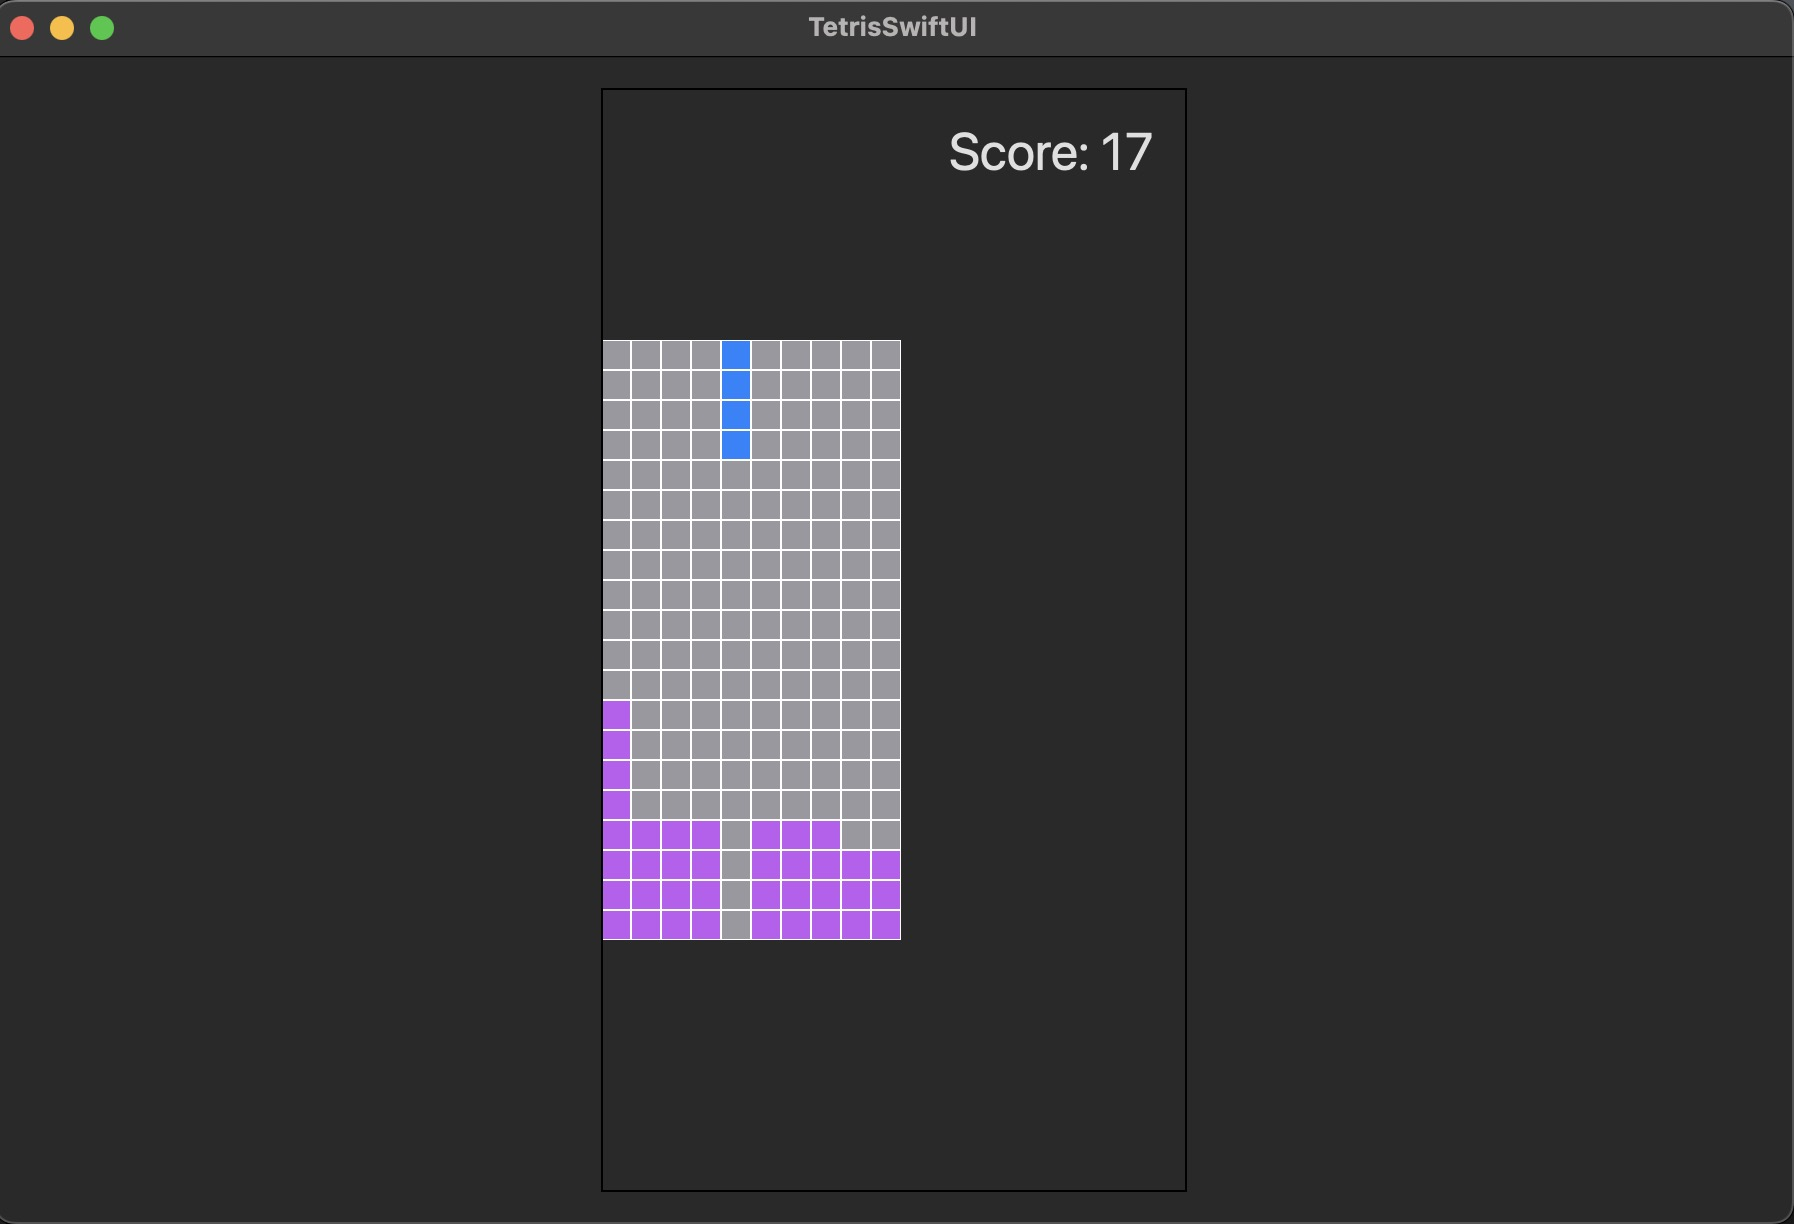
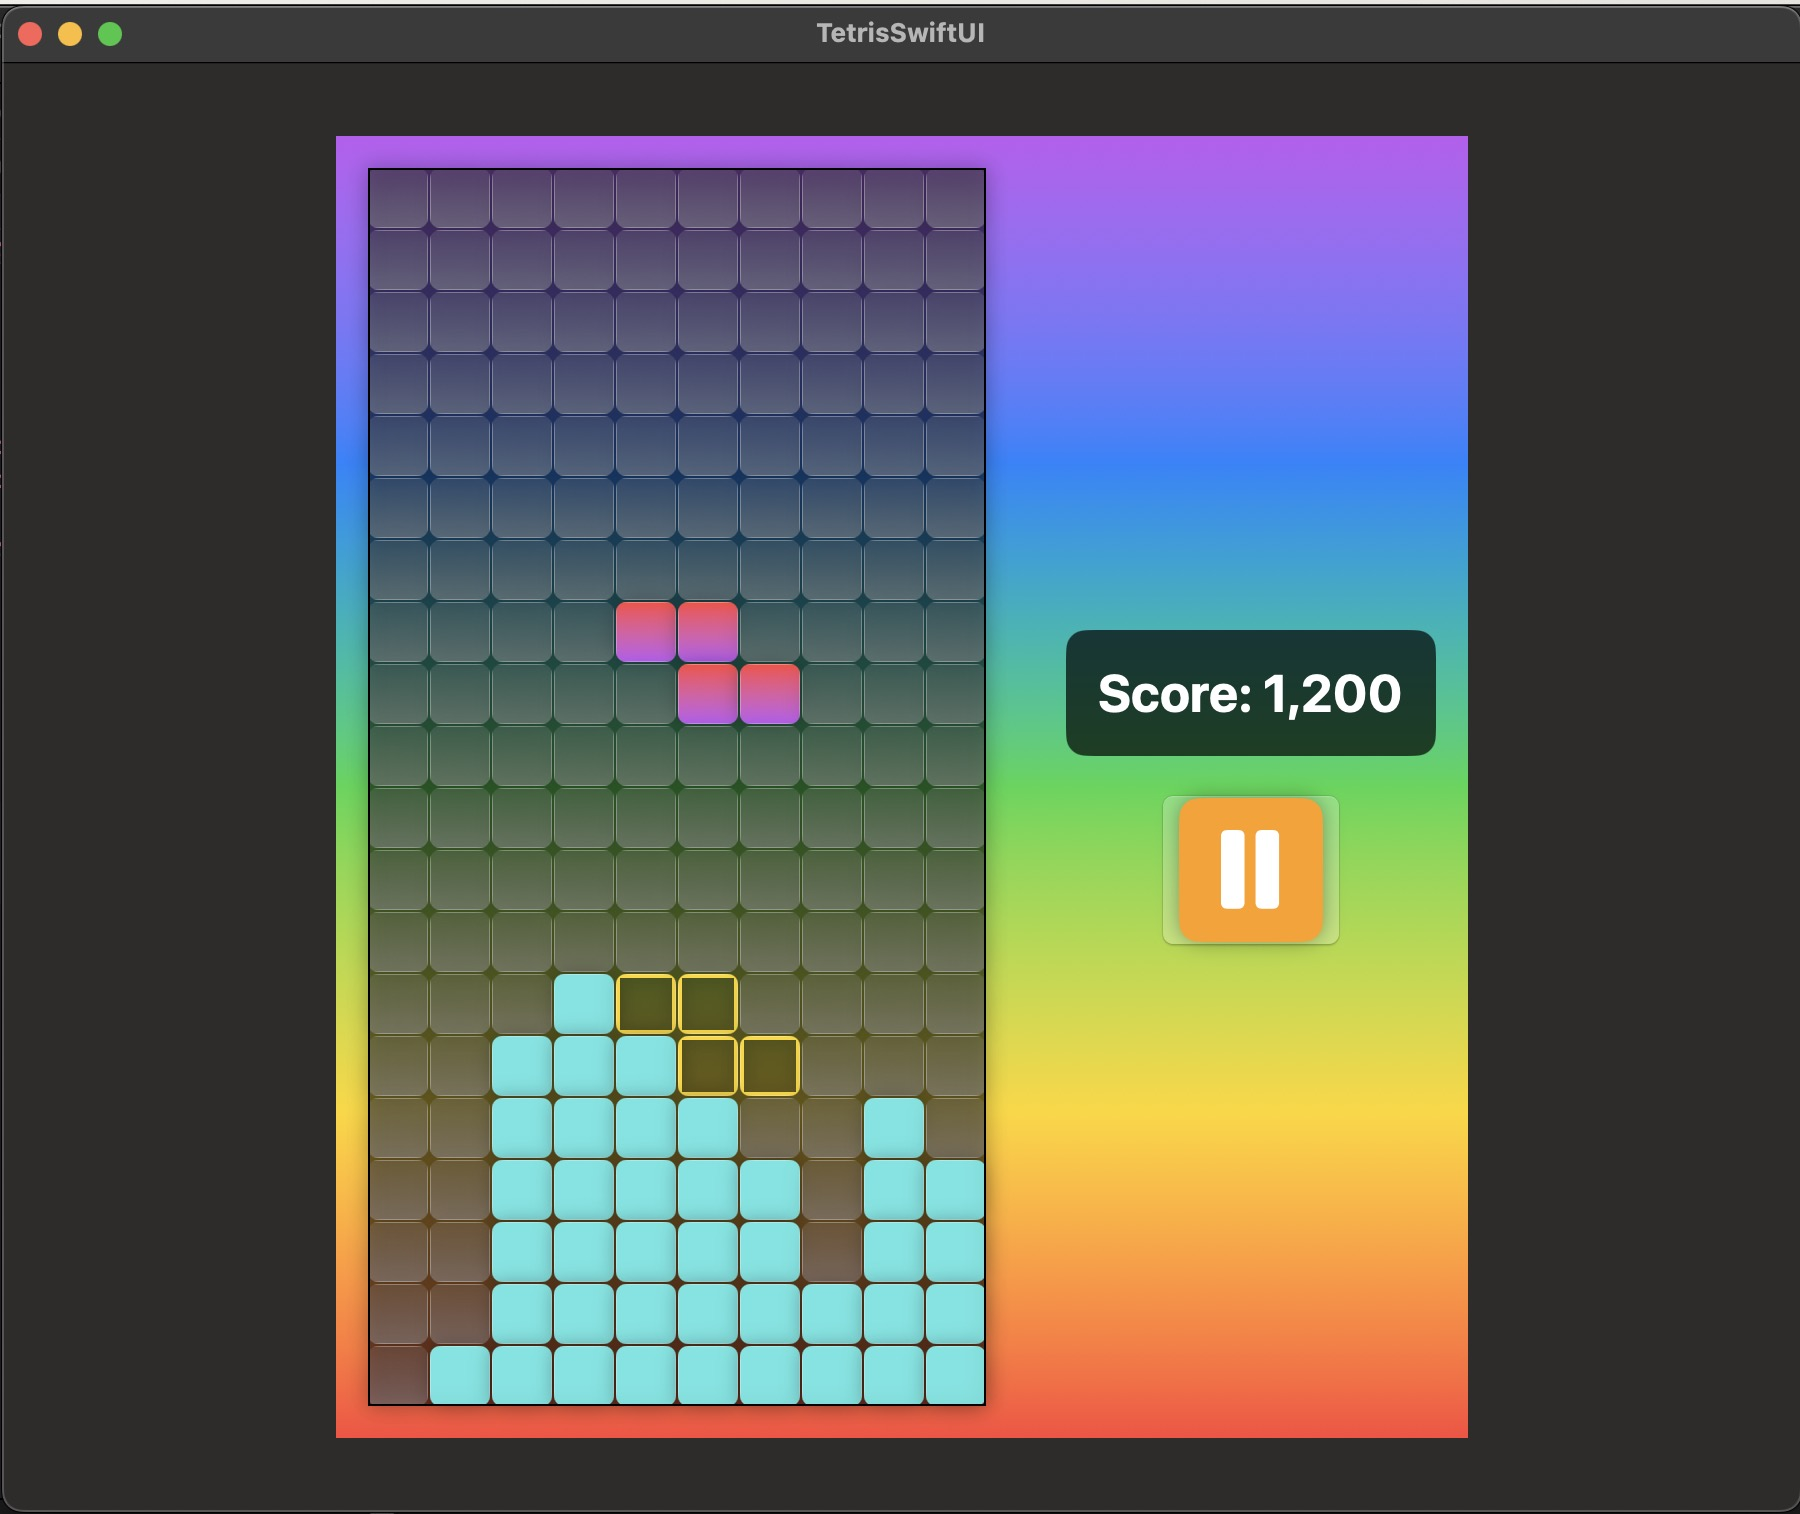
Adding an outline for where a piece will drop and updating the game screenshot

diff --git a/TetrisSwiftUI/Helpers/TetrisGameLogic.swift b/TetrisSwiftUI/Helpers/TetrisGameLogic.swift
@@ -29,9 +29,25 @@ struct TetrisGameLogic {
         // Clear the grid
         for row in 0..<TetrisConstants.height {
             for col in 0..<TetrisConstants.width {
-                if case .filled = GameState.shared.grid[row][col] {
-                    GameState.shared.grid[row][col] = .empty
+                let block = GameState.shared.grid[row][col]
+                
+                // Use a switch statement for cleaner matching
+                switch block {
+                    case .filled, .outline:
+                        GameState.shared.grid[row][col] = .empty
+                    default:
+                        break
                 }
+            }
+        }
+        
+        // Show the outline
+        let dropPosition = calculateDropPosition()
+        for cell in GameState.shared.currentPiece.cells {
+            let row = dropPosition.row + cell.0
+            let col = dropPosition.col + cell.1
+            if row >= 0 && row < TetrisConstants.height && col >= 0 && col < TetrisConstants.width {
+                GameState.shared.grid[row][col] = .outline
             }
         }
 
@@ -74,6 +90,14 @@ struct TetrisGameLogic {
 
     static func movePieceRight() {
         movePiece(.right)
+    }
+    
+    static func calculateDropPosition() -> (row: Int, col: Int) {
+        var dropPosition = GameState.shared.currentPiecePosition
+        while isPieceValid(at: (dropPosition.row + 1, dropPosition.col), piece: GameState.shared.currentPiece) {
+            dropPosition.row += 1
+        }
+        return dropPosition
     }
 
     static func dropPiece() {

diff --git a/TetrisSwiftUI/Views/TetrisView.swift b/TetrisSwiftUI/Views/TetrisView.swift
@@ -44,7 +44,9 @@ struct TetrisView: View {
         case .empty:
             return LinearGradient(gradient: Gradient(colors: [Color.gray.opacity(0.2), Color.gray.opacity(0.5)]), startPoint: .top, endPoint: .bottom)
         case .staticBlock:
-                return LinearGradient(gradient: Gradient(colors: [TetrisConstants.staticPieceColour]), startPoint: .top, endPoint: .bottom)
+            return LinearGradient(gradient: Gradient(colors: [TetrisConstants.staticPieceColour]), startPoint: .top, endPoint: .bottom)
+        case .outline:
+                return LinearGradient(gradient: Gradient(colors: [Color.clear]), startPoint: .top, endPoint: .bottom)
         case .filled(let gradient):
             return gradient
         }
@@ -92,6 +94,7 @@ struct GameBoardView: View {
                         let block = grid[row][column]
                         Rectangle()
                             .fill(self.colour(block))
+                            .overlay(block == .outline ? Rectangle().stroke(TetrisConstants.outlinePieceColour, lineWidth: 4) : nil)
                             .frame(width: 30, height: 30)
                             .border(Color.white.opacity(0.3), width: 0.5)
                             .cornerRadius(5)

diff --git a/TetrisSwiftUI/Models/TetrisDataModel.swift b/TetrisSwiftUI/Models/TetrisDataModel.swift
@@ -123,7 +123,7 @@ enum MoveDirection {
 }
 
 enum TetrisBlock: Identifiable, Equatable {
-    case empty, staticBlock, filled(LinearGradient)
+    case empty, staticBlock, filled(LinearGradient), outline
 
     var id: UUID {
         UUID()
@@ -131,7 +131,7 @@ enum TetrisBlock: Identifiable, Equatable {
 
     static func == (lhs: TetrisBlock, rhs: TetrisBlock) -> Bool {
         switch (lhs, rhs) {
-        case (.empty, .empty), (.staticBlock, .staticBlock):
+            case (.empty, .empty), (.staticBlock, .staticBlock), (.outline, .outline):
             return true
             case (.filled(_), .filled(_)):
             return false
@@ -145,6 +145,7 @@ enum TetrisConstants {
     static let height = 20 // Number of rows
     static let width = 10 // Number of columns
     static let staticPieceColour: Color = .mint
+    static let outlinePieceColour: Color = .yellow
 }
 
 class GameState: ObservableObject {
